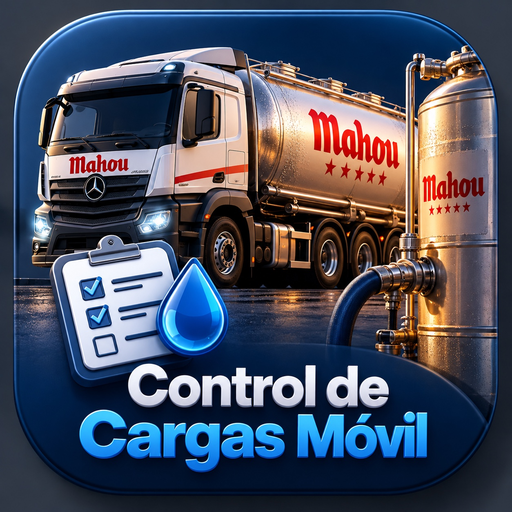
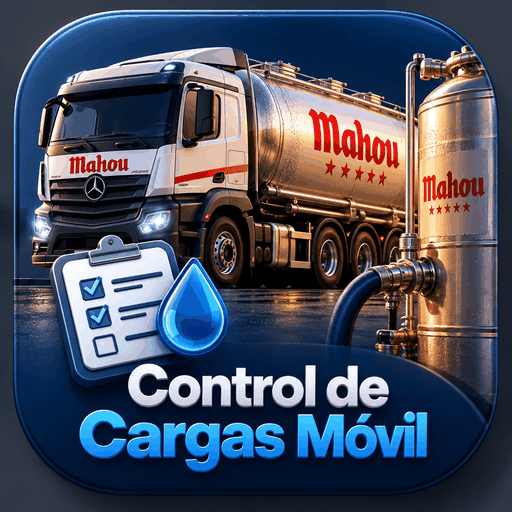
0.10.9: instalación ligera y sin textos de demostración con sesión
- Precarga del service worker de 8,0 MB a 1,48 MB: mismas imágenes,
  nombres, formatos y proporciones, ajustadas a la resolución que se ve
  en el móvil (cabeceras 1200×400, logo 600 px, referencias 768 px;
  icono 512×512 optimizado).
- Con sesión iniciada, Nueva carga, Planificación e Historial de Reparto
  muestran textos de producción; sin sesión conservan los avisos de
  demostración. «Visita guardada»; «saldos locales anteriores»;
  aria-label del selector de perfil y meta description sin «demo».
- Versión 0.10.9 (caché v0109) y CHANGELOG.md.
- Pruebas: tests/precarga.test.js y tests/browser-sin-demo.cjs.

Línea 300 TANQUES. Commit local, sin push (orden del usuario 18/11 15:28).

Claude-Session: https://claude.ai/code/session_01T6i3v7XFm8wrHcAX8AryG4

diff --git a/app.js b/app.js
@@ -2,7 +2,7 @@
 // Versión 0.9.6: existencias iniciales provisionales y conciliación pendiente (demo).
 // TankConfig (demo/staging) aísla IndexedDB respecto a producción.
 const STORE=(typeof window!=='undefined'&&window.TankConfig&&window.TankConfig.idbName)||'cdt_demo_v1';
-const APP_VERSION='0.10.8';
+const APP_VERSION='0.10.9';
 const litres=n=>{const v=Math.round(Number(n)*100)/100;return Number.isFinite(v)?v:NaN;};
 let formBusy=false;
 const UPDATE_CHECK_MS=6*60*60*1000;
@@ -105,7 +105,7 @@ function home(){
  if(!TankCloud.member()?.active)return TankCloud.panel();
  const tanks=state.tanks[state.vehicle],problems=state.cloudStockProblems||[];
  return '<div class="home-logo-preview"><img src="logo-control-tanques.png" alt="Control de Tanques Mahou"></div>'+`<h2 class="heading">${roleNames[state.role].replace(' (vista de prueba)','')}</h2>`+
- (!state.cloudStockReady?card('<h3>Existencias iniciales pendientes</h3><p>Gerencia debe indicar los litros comprobados antes de registrar movimientos. No se usarán los saldos ficticios anteriores.</p>'+(state.role==='gerencia'?action('Establecer existencias','go-gerencia'):'')):'')+
+ (!state.cloudStockReady?card('<h3>Existencias iniciales pendientes</h3><p>Gerencia debe indicar los litros comprobados antes de registrar movimientos. No se usarán los saldos locales anteriores.</p>'+(state.role==='gerencia'?action('Establecer existencias','go-gerencia'):'')):'')+
  (problems.length?'<div class="notice error">Hay movimientos incompatibles con las existencias. Gerencia debe revisar la conciliación antes de continuar.</div>':'')+
  (state.role!=='reparto'?card('<h3>Cisterna principal</h3><strong class="big">'+fmt(state.cisterna)+' L</strong>'):'')+
  `<label class="field">Vehículo<select id="vehicle"><option value="camion" ${state.vehicle==='camion'?'selected':''}>Camión</option><option value="furgoneta" ${state.vehicle==='furgoneta'?'selected':''}>Furgoneta</option></select></label>`+
@@ -121,7 +121,7 @@ if(state.role==='reparto'){txt+=provisionalFor(state.vehicle)?'<div class="notic
 if(state.role==='gerencia')txt+=action('Nueva carga de prueba','go-carga')+action(state.openVisit?'Continuar descarga':'Nueva descarga de prueba','go-visita');
 if(state.role==='gerencia')txt+=card('<h3>Gerencia · importación de pruebas</h3><p>Puedes importar Excel de jornada sin modificar las existencias de demostración.</p>'+action('Abrir importaciones','go-gerencia')+'<p class="hint">La sincronización entre PC y móvil y los permisos reales siguen pendientes.</p>');
 return txt}
-function loadPage(){let tanks=state.tanks[state.vehicle];return `<h2 class="heading">Carga individual</h2><div class="notice">Operación de prueba local. Un tanque por registro. Puedes cargar de nuevo tras enviar un lote. Si la cisterna es desconocida, la conciliación queda pendiente.</div><form id="loadForm" class="form"><label class="field">Vehículo<select id="loadVehicle"><option value="camion" ${state.vehicle==='camion'?'selected':''}>Camión</option><option value="furgoneta" ${state.vehicle==='furgoneta'?'selected':''}>Furgoneta</option></select></label><label class="field">Tanque del vehículo<select id="loadTank">${tanks.map((v,i)=>`<option value="${i}">Tanque ${i+1} · ${fmt(v)} L disponibles</option>`).join('')}</select></label><label class="field">Destino del sobrante<select id="residual"><option value="mantener">Conservar el sobrante</option><option value="desechar">Desechar sobrante como merma</option></select></label><label class="field">Lectura final del contador (litros cargados)<input id="loadLiters" inputmode="decimal" type="number" min="0.01" step="0.01" required placeholder="Ej. 200" /></label><button class="btn" type="submit">Confirmar carga de prueba</button><button class="btn secondary" type="button" data-act="leave-load">Salir sin registrar carga</button></form><p class="hint">La v1 registra los movimientos y conserva los saldos locales. El Excel diario se genera desde Más → Enviar jornada. El tiempo real queda pendiente.</p>`}
+function loadPage(){let tanks=state.tanks[state.vehicle];return `<h2 class="heading">Carga individual</h2><div class="notice">${TankCloud.connected()?'Un tanque por registro. Los cambios se guardan en el móvil y se sincronizan automáticamente.':'Operación de prueba local. Un tanque por registro. Puedes cargar de nuevo tras enviar un lote. Si la cisterna es desconocida, la conciliación queda pendiente.'}</div><form id="loadForm" class="form"><label class="field">Vehículo<select id="loadVehicle"><option value="camion" ${state.vehicle==='camion'?'selected':''}>Camión</option><option value="furgoneta" ${state.vehicle==='furgoneta'?'selected':''}>Furgoneta</option></select></label><label class="field">Tanque del vehículo<select id="loadTank">${tanks.map((v,i)=>`<option value="${i}">Tanque ${i+1} · ${fmt(v)} L disponibles</option>`).join('')}</select></label><label class="field">Destino del sobrante<select id="residual"><option value="mantener">Conservar el sobrante</option><option value="desechar">Desechar sobrante como merma</option></select></label><label class="field">Lectura final del contador (litros cargados)<input id="loadLiters" inputmode="decimal" type="number" min="0.01" step="0.01" required placeholder="Ej. 200" /></label><button class="btn" type="submit">Confirmar carga de prueba</button><button class="btn secondary" type="button" data-act="leave-load">Salir sin registrar carga</button></form><p class="hint">La v1 registra los movimientos y conserva los saldos locales. El Excel diario se genera desde Más → Enviar jornada. El tiempo real queda pendiente.</p>`}
 function plannedEntriesForVehicle(){
  return Object.values(state.receivedPlans||{}).filter(p=>p.vehicle===state.vehicle).flatMap(p=>p.entries||[]).filter(e=>!isR2PendingPlan(e));
 }
@@ -259,7 +259,7 @@ function historyPage(){
   const canCancel=!v.cancelledAt&&(v.sentAt||TankCloud.connected());
   return card(`<h3>${esc(v.client||'Visita sin cliente')}</h3><p class="compact">${esc(v.vehicle||'Vehículo desconocido')} · ${fmt(liters)} L · ${v.ended?showTime(v.ended):'Sin cierre'}</p>${v.cancelledAt?`<div class="notice">Anulación registrada (${showTime(v.cancelledAt)}). ${v.cancellationSentAt?'Comunicada en un lote Excel':TankCloud.connected()?'Pendiente de sincronizar':'Pendiente de exportar a Gerencia'}. Historial y saldos conservados.</div>`:canCancel?`<div class="notice">${TankCloud.connected()?'Visita sincronizada: anulación sin restaurar existencias (conciliación Gerencia).':'Visita enviada: requiere anulación comunicable a Gerencia, no borrado local.'}</div><button class="btn danger" type="button" data-act="cancel-sent-visit" data-id="${esc(v.id)}">Registrar anulación${TankCloud.connected()?'':' y comunicar a Gerencia'}</button>`:deleteBtn}`);
 }).join(''):'';
- return `<h2 class="heading">Historial local</h2><div class="notice">Almacén y Reparto muestran solo operaciones de hoy. Los registros anteriores permanecen guardados y accesibles desde Gerencia. Los lotes pendientes de días anteriores siguen disponibles para exportación.</div>${state.role==='reparto'?`<h3 class="heading">Visitas registradas · Revisión de pruebas</h3>${visitCards||'<div class="empty">No hay visitas cerradas guardadas en este perfil.</div>'}`:''}${movements.length?movements.map(m=>card(`<div class="row"><b>${esc(m.title)}</b><span class="tag">${showTime(m.at)}</span></div><p class="compact">${esc(m.desc)}</p>`)).join(''):'<div class="empty">Todavía no hay movimientos registrados.</div>'}`;
+ return `<h2 class="heading">Historial local</h2><div class="notice">Almacén y Reparto muestran solo operaciones de hoy. Los registros anteriores permanecen guardados y accesibles desde Gerencia. Los lotes pendientes de días anteriores siguen disponibles para exportación.</div>${state.role==='reparto'?`<h3 class="heading">Visitas registradas${TankCloud.connected()?'':' · Revisión de pruebas'}</h3>${visitCards||'<div class="empty">No hay visitas cerradas guardadas en este perfil.</div>'}`:''}${movements.length?movements.map(m=>card(`<div class="row"><b>${esc(m.title)}</b><span class="tag">${showTime(m.at)}</span></div><p class="compact">${esc(m.desc)}</p>`)).join(''):'<div class="empty">Todavía no hay movimientos registrados.</div>'}`;
 }
 const updatePanel=()=>card(`<h3>Actualizaciones</h3><div class="row"><span>Versión instalada</span><b class="mono">${APP_VERSION}</b></div><p class="update-info">La app busca nuevas versiones al abrirse o regresar a primer plano si hay conexión. No se eliminan los datos locales.</p>${action('Buscar actualizaciones','check-update',true)}${updateAvailable?`<div class="update-ready"><h4>Nueva versión disponible</h4><p class="compact">Puedes instalar la nueva versión sin borrar los movimientos de prueba.</p>${action('Actualizar ahora','apply-update')}</div>`:''}<p class="update-info" id="updateStatus">${navigator.onLine?'Para buscar una nueva versión, toca el botón.':'Sin conexión: se mantiene la versión instalada.'}</p>`);
 function stockAdjustmentPanel(){
@@ -795,7 +795,7 @@ function plannerPage(){
  const list=all.filter(c=>(planShowAll||(c.reparto||[]).includes(WEEKDAYS[planDay])||planSelected.has(c.id))&&normalizeCustomer(c.nombre+' '+c.poblacion).includes(normalizeCustomer(planSearch)));
  const picked=all.filter(c=>planSelected.has(c.id));
  const totals={camion:daily.filter(x=>x.vehicle==='camion').reduce((s,x)=>s+Number(x.liters),0),furgoneta:daily.filter(x=>x.vehicle==='furgoneta').reduce((s,x)=>s+Number(x.liters),0)};
- return `<h2 class="heading">Planificación · Gerencia</h2><div class="notice">Elige primero el vehículo, selecciona clientes y después introduce los litros. Las previsiones no modifican las existencias. Datos locales de prueba.</div>
+ return `<h2 class="heading">Planificación · Gerencia</h2><div class="notice">Elige primero el vehículo, selecciona clientes y después introduce los litros. Las previsiones no modifican las existencias.${TankCloud.connected()?'':' Datos locales de prueba.'}</div>
  <div class="card"><label class="field">Vehículo para esta planificación<select id="planVehicleChoice"><option value="camion" ${planVehicleChoice==='camion'?'selected':''}>Camión · Iván</option><option value="furgoneta" ${planVehicleChoice==='furgoneta'?'selected':''}>Furgoneta · Nacho</option></select></label><div class="row"><button class="btn small secondary" data-act="prev-week">‹</button><b>Semana ${esc(planDate(0))} – ${esc(planDate(4))}</b><button class="btn small secondary" data-act="next-week">›</button></div><div class="plan-days">${days.map((d,i)=>`<button class="${i===planDay?'chosen':''}" data-act="select-plan-day" data-day="${i}">${d}<small>${entries.filter(x=>x.date===planDate(i)).length}</small></button>`).join('')}</div></div>
  ${card(planStep===1?`<h3>1 · ${planVehicleChoice==='camion'?'Camión':'Furgoneta'} · Seleccionar clientes · ${esc(date)}</h3><p class="hint">${usual.length} clientes habituales para ${WEEKDAYS[planDay]}. Puedes incluir otros establecimientos sin modificar su ficha.</p><label class="field">Buscar cliente<input id="planSearch" type="search" placeholder="Nombre o población" value="${esc(planSearch)}"></label><label class="check"><input type="checkbox" id="planShowAll" ${planShowAll?'checked':''}> Mostrar todo el catálogo (${all.length})</label><div class="plan-bulk-buttons"><button type="button" class="btn small secondary" data-act="plan-select-visible">Marcar visibles</button><button type="button" class="btn small secondary" data-act="plan-clear-visible">Desmarcar visibles</button></div><div class="plan-customer-list" id="planCustomerList">${list.map(c=>`<label class="plan-customer" data-search="${esc(normalizeCustomer(c.nombre+' '+c.poblacion))}" data-usual="${(c.reparto||[]).includes(WEEKDAYS[planDay])?'yes':'no'}"><input type="checkbox" class="plan-pick" value="${esc(c.id)}" ${planSelected.has(c.id)?'checked':''}><span><b>${esc(c.nombre)}</b><small>${esc(c.poblacion)} · ${(c.reparto||[]).includes(WEEKDAYS[planDay])?'Habitual del día':'Fuera del día habitual'}</small></span></label>`).join('')||'<div class="empty">No hay clientes en este filtro. Activa «Mostrar todo el catálogo».</div>'}</div><p class="compact"><b id="planSelectedCount">${planSelected.size}</b> seleccionados</p><button class="btn" data-act="plan-next" ${planSelected.size?'':'disabled'}>Continuar · introducir litros →</button>`:
  `<h3>2 · Introducir litros · ${esc(date)}</h3><p class="hint">Vehículo: <b>${planVehicleChoice==='camion'?'Camión · Iván':'Furgoneta · Nacho'}</b>. Todos los clientes seleccionados se asignarán a este vehículo. Puedes cambiar su vehículo posteriormente desde Editar.</p><div class="plan-entry-list">${picked.map(c=>{const existing=daily.find(x=>x.customerId===c.id),draft=planDraft[c.id]||{},liters=draft.liters??existing?.liters??'',vehicle=planVehicleChoice,cap=Number(c.tanques250||0)*250+Number(c.tanques500||0)*500;return `<div class="plan-entry" data-customer="${esc(c.id)}"><b>${esc(c.nombre)}</b><small>${esc(c.poblacion)}${cap?' · Capacidad '+fmt(cap)+' L':''}${existing?' · Ya planificado':''}</small><div class="plan-entry-fields"><label>Litros<input class="plan-liters" data-customer="${esc(c.id)}" type="number" inputmode="decimal" min="0" step="0.01" placeholder="0" value="${esc(liters)}"></label></div></div>`}).join('')}</div><div class="plan-bulk-buttons"><button class="btn secondary" data-act="plan-back">← Volver</button><button class="btn" data-act="plan-save-bulk">Guardar planificación</button></div>`)}
@@ -943,7 +943,7 @@ async function reopenVisit(id){
  state.log.push({title:'Visita reabierta',at:now(),desc:`${v.client} · Correcciones permitidas antes del envío de jornada`});
  await persist();
 }
-async function finishVisit(){const v=state.openVisit;if(!v?.discharges.length)return toast('Registra al menos una descarga');if(!confirm(`Finalizar visita a ${v.client} con ${v.discharges.length} descargas?`))return;invalidateDraft('reparto');v.ended=now();state.visits.push(v);state.log.push({title:'Visita cerrada',desc:`${v.client} · ${v.discharges.length} descargas · ${fmt(v.discharges.reduce((s,d)=>s+d.liters,0))} L${v.planEntryId?' · Previsto '+fmt(v.plannedLiters)+' L': ' · No planificada ('+(v.unplannedReason||'otro')+')'}`,at:v.ended});state.openVisit=null;editingId=null;await persist();toast('Visita ficticia guardada')}
+async function finishVisit(){const v=state.openVisit;if(!v?.discharges.length)return toast('Registra al menos una descarga');if(!confirm(`Finalizar visita a ${v.client} con ${v.discharges.length} descargas?`))return;invalidateDraft('reparto');v.ended=now();state.visits.push(v);state.log.push({title:'Visita cerrada',desc:`${v.client} · ${v.discharges.length} descargas · ${fmt(v.discharges.reduce((s,d)=>s+d.liters,0))} L${v.planEntryId?' · Previsto '+fmt(v.plannedLiters)+' L': ' · No planificada ('+(v.unplannedReason||'otro')+')'}`,at:v.ended});state.openVisit=null;editingId=null;await persist();toast('Visita guardada')}
 async function backup(){const profiles={};for(const [role,key] of Object.entries(profileKeys))profiles[role]=await dbGet(key);const bytes=new Blob([JSON.stringify({app:'control-de-tanques',phase:'v0.10',exported:now(),profiles,sync:TankCloud.connected()?TankCloud.meta():null},null,2)],{type:'application/json'});const url=URL.createObjectURL(bytes);const a=document.createElement('a');a.href=url;a.download=`control-tanques-DEMO-perfiles-${new Date().toISOString().slice(0,10)}.json`;a.click();setTimeout(()=>URL.revokeObjectURL(url),15000)}
 async function handleActions(e){if(window.VISURA_LAB_VISUAL?.handle(e,state,render))return;if(TankCloud.connected()&&['reset','clear-opening','make-xlsx','mark-sent','resend-xlsx','prepare-real','save-reconciliation','export-handoff','export-stock'].includes(e.target.closest('[data-act]')?.dataset.act))return toast('En modo conectado se utiliza sincronización automática');const page=e.target.closest('[data-page]');if(page){await navigate(page.dataset.page);return}const act=e.target.closest('[data-act]')?.dataset.act;if(act==='import-r2-initial')return window.Visura315InitialImport?.open();if(act==='cancel-sent-visit')return cancelSentVisit(e.target.closest('[data-id]')?.dataset.id);if(act==='delete-test-visit')return deleteTestVisit(e.target.closest('[data-id]')?.dataset.id);if(act==='go-admin')return navigate('admin');if(act==='go-recibir-plan')return navigate('recibir-plan');if(act==='clear-opening'){if(confirm('¿Quitar los saldos iniciales ficticios? Los Excel importados y sus identificadores se conservarán.')){delete managerState().opening;await persist();}return;}if(act==='go-gerencia')return navigate('gerencia');if(act==='go-informes'){TankCloud.loadMembers?.().then(()=>{if(state.page==='informes')render()}).catch(console.warn);return navigate('informes');}if(act==='report-pdf')return downloadReport();if(act==='go-clientes')return navigate('clientes');if(act==='go-planificacion')return navigate('planificacion');if(act==='plan-select-visible'||act==='plan-clear-visible'){document.querySelectorAll('.plan-pick').forEach(n=>{if(n.closest('.plan-customer').hidden)return;if(act==='plan-select-visible')planSelected.add(n.value);else planSelected.delete(n.value)});return render()}if(act==='plan-next'){if(!planSelected.size)return toast('Selecciona clientes');planStep=2;return render()}if(act==='plan-back'){planStep=1;return render()}if(act==='plan-save-bulk')return saveBulkPlan();if(act==='prev-week')return moveWeek(-1);if(act==='next-week')return moveWeek(1);if(act==='select-plan-day'){planDay=Number(e.target.closest('[data-day]').dataset.day);resetPlanSelection();return render()}if(act==='edit-plan'){planEditing=e.target.closest('[data-id]').dataset.id;return render()}if(act==='cancel-plan-edit'){planEditing=null;return render()}if(act==='delete-plan')return deletePlan(e.target.closest('[data-id]').dataset.id);if(act==='export-plan')return exportPlan(e.target.closest('[data-vehicle]').dataset.vehicle);if(act==='close-nav-sheet')return closeNavigationSheet();if(act==='choose-nav')return navigateCustomerWith(e.target.closest('[data-provider]').dataset.provider);if(act==='cancel-customer'){editingCustomer=null;return render()}if(act==='map-customer')return openCustomerLocation(e.target.closest('[data-id]')?.dataset.id);if(act==='edit-customer'){if(!canEditCustomerCatalog())return toast('Solo Gerencia puede editar clientes');const id=e.target.closest('[data-id]')?.dataset.id;if(!(state.customers||[]).some(x=>x.id===id))return toast('Cliente no encontrado');editingCustomer=id;return render()}if(act==='delete-customer'){const id=e.target.closest('[data-id]')?.dataset.id;const c=(state.customers||[]).find(x=>x.id===id);if(isR2PendingRoute(c))return toast('Ficha R2 de solo consulta');if(c&&confirm('¿Eliminar el cliente '+c.nombre+' del catálogo local?')){state.customers=state.customers.filter(x=>x.id!==id);if(editingCustomer===id)editingCustomer=null;await persist()}return;}if(act==='export-handoff')return exportHandoff();if(act==='export-stock')return shareStockFile(el('stockExportVehicle')?.value||state.vehicle);if(act==='go-jornada')return navigate('jornada');if(act==='make-xlsx')return sendJournal(false);if(act==='resend-xlsx')return sendJournal(true);if(act==='mark-sent')return markJournalSent();if(act==='leave-load')return navigate('inicio');if(act==='leave-visit'){const v=state.openVisit;if(!v)return navigate('inicio');if(!(v.discharges||[]).length){if((v.resets||[]).length||(v.corrections||[]).length)return toast('Hay modificaciones registradas: revisa la visita antes de salir');state.openVisit=null;await persist();toast('Entrada descartada: no se registraron descargas');return navigate('inicio')}await persist();toast('Visita conservada. Podrás continuarla después.');return navigate('inicio')}if(act==='go-carga')return navigate('carga');if(act==='go-visita')return navigate('visita');if(act==='start-planned-visit'){const id=e.target.closest('[data-id]')?.dataset.id;const entry=plannedEntriesForVehicle().find(x=>x.id===id);if(!entry)return toast('No se encontró la entrega');if((state.visits||[]).some(v=>v.planEntryId===id))return toast('Entrega ya atendida');return beginDelivery(entry,entry.client,null);}if(act==='finish-visit')return finishVisit();if(act==='reset-meter')return resetMeter();if(act==='cancel-edit'){editingId=null;return render()}if(act==='edit-discharge'){editingId=e.target.closest('[data-id]')?.dataset.id;return render()}if(act==='reopen-visit')return reopenVisit(e.target.closest('[data-id]')?.dataset.id);if(act==='save-reconciliation')return saveReconciliation();if(act==='export-reconciliation')return exportReconciliation();if(act==='prepare-real')return prepareRealOpening();if(act==='export-real-opening')return exportRealOpening();if(act==='backup')return backup();if(act==='check-update')return checkForUpdates(true);if(act==='apply-update')return applyUpdate();if(act==='reset'){if(confirm('¿Reiniciar solamente el perfil '+roleNames[state.role]+'? Antes guarda una copia JSON. Los otros perfiles y la copia anterior se mantienen.')){const role=state.role;state=cleanProfile(role);await persist()}}}
 async function handleChange(e){if(e.target.id==='extraCatalogClient')updateDeliveryCatalogDetails();if(e.target.id==='vehicle'||e.target.id==='loadVehicle'){if((e.target.id==='loadVehicle'?TankRoles.openVisitLocksLoadVehicle(state):state.openVisit)&&e.target.value!==state.openVisit.vehicle){e.target.value=state.openVisit.vehicle;return toast('Finaliza primero la descarga en curso para cambiar de vehículo')}state.vehicle=e.target.value;await persist();render()}if(e.target.id==='planVehicleChoice'){planVehicleChoice=e.target.value;resetPlanSelection();render();}if(e.target.id==='planShowAll'){planShowAll=e.target.checked;render()}if(e.target.classList.contains('plan-pick')){if(e.target.checked)planSelected.add(e.target.value);else planSelected.delete(e.target.value);const counter=el('planSelectedCount');if(counter)counter.textContent=planSelected.size;const next=document.querySelector('[data-act=plan-next]');if(next)next.disabled=!planSelected.size;}if(e.target.id==='deliveryDate'){state.deliveryDate=e.target.value;await persist()}if(['reportDate','reportOperator','reportVehicle'].includes(e.target.id)){reportFilters[e.target.id]=e.target.value;render();}if(e.target.id==='planReceiveVehicle'){state.vehicle=e.target.value;await persist()}if(e.target.id==='receivePlanFile'&&e.target.files?.[0])await receivePlanFile(e.target.files[0]);if(e.target.id==='chooseRole'){await changeProfile(e.target.value)}if(e.target.id==='loadVehicle')render();if(e.target.id==='journalDate'){journalDate=e.target.value;render()}if(e.target.id==='journalWorker'){journalWorker=e.target.value.trim();}if(e.target.id==='managerFile'&&e.target.files?.[0])await importManagerFile(e.target.files[0]);if(e.target.id==='handoffFile'&&e.target.files?.[0])await receiveHandoff(e.target.files[0]);if(e.target.id==='stockTransferFile'&&e.target.files?.[0])await receiveStockFile(e.target.files[0]);}

diff --git a/index.html b/index.html
@@ -1,6 +1,6 @@
 <!doctype html>
-<html lang="es"><head><meta charset="utf-8"><meta name="viewport" content="width=device-width,initial-scale=1,viewport-fit=cover"><meta name="theme-color" content="#b61b32"><meta name="description" content="Control de Tanques — prototipo local de pruebas"><link rel="manifest" href="manifest.webmanifest?v=0.10.8"><link rel="icon" href="Control_de_Tanques_icon_512.png" type="image/png"><link rel="apple-touch-icon" href="Control_de_Tanques_icon_512.png"><link rel="stylesheet" href="styles.css?v=0.10.8"><link rel="stylesheet" href="visura-r5-visual.css?v=cp030"><link rel="stylesheet" href="visura-tanques-botones-r4.css?v=r5-home"><link rel="stylesheet" href="visura-tanques-interiores-r6.css?v=r6"><link rel="stylesheet" href="visura-tanques-interiores-r61.css?v=r61"><link rel="stylesheet" href="visura-gerencia-dual-r7.css?v=r7"><link rel="stylesheet" href="visura-gerencia-imagenes-r8.css?v=r8"><link rel="stylesheet" href="visura-transversal-r9.css?v=r91"><link rel="stylesheet" href="visura-inicio-sync-r92.css?v=r92"><link rel="stylesheet" href="visura-banners-r93.css?v=r93"><link rel="stylesheet" href="visura-secundarias-r94.css?v=r94"><link rel="stylesheet" href="visura-gerencia-interiores-r95.css?v=r95"><link rel="stylesheet" href="visura-operativa-r96.css?v=r96"><link rel="stylesheet" href="visura-consolidacion-r97.css?v=r97"><title>VISURA PREPARA · TANQUES</title></head>
-<body><header class="top"><div class="brand"><img class="visura-header-logo" src="assets/visura-prepara.svg" alt="VISURA PREPARA" width="150" height="38"><div class="visura-header-meta"><small>MAHOU · VOLDIS</small><h1>TANQUES</h1></div></div><div class="role-switch"><button id="roleButton" class="pill" type="button" aria-expanded="false" aria-controls="rolePicker">Reparto ▾</button><div id="rolePicker" class="role-picker" role="group" aria-label="Cambiar perfil de demostración" hidden><button type="button" data-profile="almacen">Almacén</button><button type="button" data-profile="gerencia">Operaciones</button><button type="button" data-profile="reparto">Reparto</button></div></div></header><div class="demo-banner">VISURA PREPARA · v0.10.8</div>
+<html lang="es"><head><meta charset="utf-8"><meta name="viewport" content="width=device-width,initial-scale=1,viewport-fit=cover"><meta name="theme-color" content="#b61b32"><meta name="description" content="Control de Tanques VISURA — cargas, descargas y existencias de tanques"><link rel="manifest" href="manifest.webmanifest?v=0.10.9"><link rel="icon" href="Control_de_Tanques_icon_512.png" type="image/png"><link rel="apple-touch-icon" href="Control_de_Tanques_icon_512.png"><link rel="stylesheet" href="styles.css?v=0.10.9"><link rel="stylesheet" href="visura-r5-visual.css?v=cp030"><link rel="stylesheet" href="visura-tanques-botones-r4.css?v=r5-home"><link rel="stylesheet" href="visura-tanques-interiores-r6.css?v=r6"><link rel="stylesheet" href="visura-tanques-interiores-r61.css?v=r61"><link rel="stylesheet" href="visura-gerencia-dual-r7.css?v=r7"><link rel="stylesheet" href="visura-gerencia-imagenes-r8.css?v=r8"><link rel="stylesheet" href="visura-transversal-r9.css?v=r91"><link rel="stylesheet" href="visura-inicio-sync-r92.css?v=r92"><link rel="stylesheet" href="visura-banners-r93.css?v=r93"><link rel="stylesheet" href="visura-secundarias-r94.css?v=r94"><link rel="stylesheet" href="visura-gerencia-interiores-r95.css?v=r95"><link rel="stylesheet" href="visura-operativa-r96.css?v=r96"><link rel="stylesheet" href="visura-consolidacion-r97.css?v=r97"><title>VISURA PREPARA · TANQUES</title></head>
+<body><header class="top"><div class="brand"><img class="visura-header-logo" src="assets/visura-prepara.svg" alt="VISURA PREPARA" width="150" height="38"><div class="visura-header-meta"><small>MAHOU · VOLDIS</small><h1>TANQUES</h1></div></div><div class="role-switch"><button id="roleButton" class="pill" type="button" aria-expanded="false" aria-controls="rolePicker">Reparto ▾</button><div id="rolePicker" class="role-picker" role="group" aria-label="Cambiar perfil" hidden><button type="button" data-profile="almacen">Almacén</button><button type="button" data-profile="gerencia">Operaciones</button><button type="button" data-profile="reparto">Reparto</button></div></div></header><div class="demo-banner">VISURA PREPARA · v0.10.9</div>
 <section id="visuraCloudPanel" class="screen" style="padding-bottom:0"><div class="card"><p id="cloudBadge" role="status">Iniciando conexión…</p><button id="cloudForce" class="btn secondary" data-cloud="force">Sincronizar ahora</button><button class="btn secondary" data-cloud="settings">Cuenta</button></div></section><main id="screen" class="screen" aria-live="polite"></main>
 <nav class="nav" aria-label="Navegación principal"><button type="button" data-page="inicio" class="active" aria-current="page"><svg viewBox="0 0 24 24" aria-hidden="true" focusable="false"><path d="M3 10.5 12 3l9 7.5V21h-6v-7H9v7H3z"/></svg>Inicio</button><button type="button" data-page="carga"><svg viewBox="0 0 24 24" aria-hidden="true" focusable="false"><path d="M4 15h16v6H4zM12 3v10m-5-5 5-5 5 5"/></svg>Carga</button><button type="button" data-page="visita"><svg viewBox="0 0 24 24" aria-hidden="true" focusable="false"><path d="M4 15h16v6H4zM12 3v10m-5-5 5 5 5-5"/></svg>Descarga</button><button type="button" data-page="historial"><svg viewBox="0 0 24 24" aria-hidden="true" focusable="false"><circle cx="12" cy="12" r="9"/><path d="M12 7v5l4 2"/></svg>Historial</button><button type="button" data-page="admin"><svg viewBox="0 0 24 24" aria-hidden="true" focusable="false"><circle cx="5" cy="5" r="1.4"/><circle cx="12" cy="5" r="1.4"/><circle cx="19" cy="5" r="1.4"/><circle cx="5" cy="12" r="1.4"/><circle cx="12" cy="12" r="1.4"/><circle cx="19" cy="12" r="1.4"/><circle cx="5" cy="19" r="1.4"/><circle cx="12" cy="19" r="1.4"/><circle cx="19" cy="19" r="1.4"/></svg>Más</button></nav>
-<div id="navigationSheet" class="nav-sheet-backdrop" hidden><div class="nav-sheet" role="dialog" aria-modal="true" aria-labelledby="navSheetTitle"><div class="nav-sheet-handle"></div><h3 id="navSheetTitle">Abrir ubicación con…</h3><p id="navigationClient" class="muted compact"></p><button type="button" class="nav-option" data-act="choose-nav" data-provider="waze"><span class="nav-option-icon">🚙</span><span><b>Waze</b><small>Navegación GPS</small></span><span>›</span></button><button type="button" class="nav-option" data-act="choose-nav" data-provider="google"><span class="nav-option-icon">📍</span><span><b>Google Maps</b><small>Mapas y rutas</small></span><span>›</span></button><button type="button" class="nav-option" data-act="choose-nav" data-provider="apple"><span class="nav-option-icon">🗺</span><span><b>Mapas de Apple</b><small>Navegación en iPhone</small></span><span>›</span></button><button type="button" class="btn secondary" data-act="close-nav-sheet">Cancelar</button></div></div><div id="toast" role="status" aria-live="polite"></div><script src="xlsx-local.js?v=0.10.8" defer></script><script src="xlsx-import-local.js?v=0.10.8" defer></script><script src="xlsx-transfer-local.js?v=0.10.8" defer></script><script src="plan-import-local.js?v=0.10.8" defer></script><script src="supabase-2.57.4.js" defer></script><script src="sync-core.js?v=0.10.8" defer></script><script src="cloud-sync.js?v=0.10.8" defer></script><script src="visura-r5-visual.js?v=r5-descarga-reparto" defer></script><script src="visura-tanques-botones-r4.js?v=r4" defer></script><script src="visura-tanques-interiores-r61.js?v=r61" defer></script><script src="role-rules.js?v=0.10.8" defer></script><script src="report-core.js?v=0.10.8" defer></script><script src="report-pdf.js?v=0.10.8" defer></script><script src="app.js?v=0.10.8-home-r5-315-operativa-r2" defer></script><script src="visura315-import.js?v=1" defer></script><script src="visura-gerencia-dual-r7.js?v=r7" defer></script><script src="visura-gerencia-imagenes-r8.js?v=r8" defer></script><script src="visura-transversal-r9.js?v=r91" defer></script><script src="visura-inicio-sync-r92.js?v=r92" defer></script><script src="visura-banners-r93.js?v=r93" defer></script><script src="visura-secundarias-r94.js?v=r94" defer></script><script src="visura-gerencia-interiores-r95.js?v=r95" defer></script></body></html>
+<div id="navigationSheet" class="nav-sheet-backdrop" hidden><div class="nav-sheet" role="dialog" aria-modal="true" aria-labelledby="navSheetTitle"><div class="nav-sheet-handle"></div><h3 id="navSheetTitle">Abrir ubicación con…</h3><p id="navigationClient" class="muted compact"></p><button type="button" class="nav-option" data-act="choose-nav" data-provider="waze"><span class="nav-option-icon">🚙</span><span><b>Waze</b><small>Navegación GPS</small></span><span>›</span></button><button type="button" class="nav-option" data-act="choose-nav" data-provider="google"><span class="nav-option-icon">📍</span><span><b>Google Maps</b><small>Mapas y rutas</small></span><span>›</span></button><button type="button" class="nav-option" data-act="choose-nav" data-provider="apple"><span class="nav-option-icon">🗺</span><span><b>Mapas de Apple</b><small>Navegación en iPhone</small></span><span>›</span></button><button type="button" class="btn secondary" data-act="close-nav-sheet">Cancelar</button></div></div><div id="toast" role="status" aria-live="polite"></div><script src="xlsx-local.js?v=0.10.9" defer></script><script src="xlsx-import-local.js?v=0.10.9" defer></script><script src="xlsx-transfer-local.js?v=0.10.9" defer></script><script src="plan-import-local.js?v=0.10.9" defer></script><script src="supabase-2.57.4.js" defer></script><script src="sync-core.js?v=0.10.9" defer></script><script src="cloud-sync.js?v=0.10.9" defer></script><script src="visura-r5-visual.js?v=r5-descarga-reparto" defer></script><script src="visura-tanques-botones-r4.js?v=r4" defer></script><script src="visura-tanques-interiores-r61.js?v=r61" defer></script><script src="role-rules.js?v=0.10.9" defer></script><script src="report-core.js?v=0.10.9" defer></script><script src="report-pdf.js?v=0.10.9" defer></script><script src="app.js?v=0.10.9-home-r5-315-operativa-r2" defer></script><script src="visura315-import.js?v=1" defer></script><script src="visura-gerencia-dual-r7.js?v=r7" defer></script><script src="visura-gerencia-imagenes-r8.js?v=r8" defer></script><script src="visura-transversal-r9.js?v=r91" defer></script><script src="visura-inicio-sync-r92.js?v=r92" defer></script><script src="visura-banners-r93.js?v=r93" defer></script><script src="visura-secundarias-r94.js?v=r94" defer></script><script src="visura-gerencia-interiores-r95.js?v=r95" defer></script></body></html>

diff --git a/sw.js b/sw.js
@@ -1,6 +1,6 @@
 // Cache del shell únicamente. Nunca abre IndexedDB ni borra datos de usuario.
-const CACHE='control-tanques-demo-v0108-visura14-transversal-r91-315-operativa-r2-inicio-r92-banners-r93-secundarias-r94-gerencia-r95-operativa-r96-consolidacion-r97';
-const FILES=['./supabase-2.57.4.js','./sync-core.js?v=0.10.8','./cloud-sync.js?v=0.10.8','./','./index.html','./styles.css?v=0.10.8','./role-rules.js?v=0.10.8','./report-core.js?v=0.10.8','./report-pdf.js?v=0.10.8','./app.js?v=0.10.8-home-r5-315-operativa-r2','./visura315-import.js?v=1','./xlsx-local.js?v=0.10.8','./xlsx-import-local.js?v=0.10.8','./xlsx-transfer-local.js?v=0.10.8','./plan-import-local.js?v=0.10.8','./manifest.webmanifest?v=0.10.8','./assets/visura-prepara.svg','./icon.svg','./mahou-logo.png','./logo-control-tanques.png','./Control_de_Tanques_icon_192.png','./Control_de_Tanques_icon_512.png','./version.json','./visura-r5-visual.js?v=r5-descarga-reparto','./visura-r5-visual.css?v=cp030','./referencia-clientes.jpg','./referencia-cargas.jpg','./assets/cargas-aprobada.png','./assets/descargas-aprobada.png','./visura-tanques-botones-r4.js?v=r4','./visura-tanques-botones-r4.css?v=r5-home','./visura-tanques-interiores-r6.css?v=r6','./visura-tanques-interiores-r61.css?v=r61','./visura-tanques-interiores-r61.js?v=r61','./visura-gerencia-dual-r7.css?v=r7','./visura-gerencia-dual-r7.js?v=r7','./visura-gerencia-imagenes-r8.css?v=r8','./visura-gerencia-imagenes-r8.js?v=r8','./assets/gerencia-r8-cisterna.jpg','./assets/gerencia-r8-camion.jpg','./assets/gerencia-r8-furgoneta.jpg','./assets/voldis-logo-autorizado-r8.jpeg','./visura-transversal-r9.css?v=r91','./visura-transversal-r9.js?v=r91','./visura-inicio-sync-r92.css?v=r92','./visura-inicio-sync-r92.js?v=r92','./visura-banners-r93.css?v=r93','./visura-banners-r93.js?v=r93','./visura-secundarias-r94.css?v=r94','./visura-secundarias-r94.js?v=r94','./visura-gerencia-interiores-r95.css?v=r95','./visura-gerencia-interiores-r95.js?v=r95','./visura-operativa-r96.css?v=r96','./visura-consolidacion-r97.css?v=r97'];
+const CACHE='control-tanques-demo-v0109-visura14-transversal-r91-315-operativa-r2-inicio-r92-banners-r93-secundarias-r94-gerencia-r95-operativa-r96-consolidacion-r97';
+const FILES=['./supabase-2.57.4.js','./sync-core.js?v=0.10.9','./cloud-sync.js?v=0.10.9','./','./index.html','./styles.css?v=0.10.9','./role-rules.js?v=0.10.9','./report-core.js?v=0.10.9','./report-pdf.js?v=0.10.9','./app.js?v=0.10.9-home-r5-315-operativa-r2','./visura315-import.js?v=1','./xlsx-local.js?v=0.10.9','./xlsx-import-local.js?v=0.10.9','./xlsx-transfer-local.js?v=0.10.9','./plan-import-local.js?v=0.10.9','./manifest.webmanifest?v=0.10.9','./assets/visura-prepara.svg','./icon.svg','./mahou-logo.png','./logo-control-tanques.png','./Control_de_Tanques_icon_192.png','./Control_de_Tanques_icon_512.png','./version.json','./visura-r5-visual.js?v=r5-descarga-reparto','./visura-r5-visual.css?v=cp030','./referencia-clientes.jpg','./referencia-cargas.jpg','./assets/cargas-aprobada.png','./assets/descargas-aprobada.png','./visura-tanques-botones-r4.js?v=r4','./visura-tanques-botones-r4.css?v=r5-home','./visura-tanques-interiores-r6.css?v=r6','./visura-tanques-interiores-r61.css?v=r61','./visura-tanques-interiores-r61.js?v=r61','./visura-gerencia-dual-r7.css?v=r7','./visura-gerencia-dual-r7.js?v=r7','./visura-gerencia-imagenes-r8.css?v=r8','./visura-gerencia-imagenes-r8.js?v=r8','./assets/gerencia-r8-cisterna.jpg','./assets/gerencia-r8-camion.jpg','./assets/gerencia-r8-furgoneta.jpg','./assets/voldis-logo-autorizado-r8.jpeg','./visura-transversal-r9.css?v=r91','./visura-transversal-r9.js?v=r91','./visura-inicio-sync-r92.css?v=r92','./visura-inicio-sync-r92.js?v=r92','./visura-banners-r93.css?v=r93','./visura-banners-r93.js?v=r93','./visura-secundarias-r94.css?v=r94','./visura-secundarias-r94.js?v=r94','./visura-gerencia-interiores-r95.css?v=r95','./visura-gerencia-interiores-r95.js?v=r95','./visura-operativa-r96.css?v=r96','./visura-consolidacion-r97.css?v=r97'];
 // Exclusivamente los dos PNG aprobados; el resto de recursos conserva su política.
 const BANNERS=new Set(['assets/cargas-aprobada.png','assets/descargas-aprobada.png'].map(p=>new URL(p,self.registration.scope).href));
 const isBanner=request=>BANNERS.has(request.url);

diff --git a/tests/precarga.test.js b/tests/precarga.test.js
@@ -1,0 +1,40 @@
+'use strict';
+// Instalación ligera (0.10.9): la precarga del service worker debe ser pequeña y completa.
+const test=require('node:test');
+const assert=require('node:assert/strict');
+const fs=require('fs');
+const path=require('path');
+const root=path.join(__dirname,'..');
+const sw=fs.readFileSync(path.join(root,'sw.js'),'utf8');
+const files=[...new Set([...sw.matchAll(/'\.\/([^'?]*)/g)].map(m=>m[1]||'index.html'))];
+const LIMIT=1.5e6;
+
+test('Todos los archivos de la precarga existen',()=>{
+ const missing=files.filter(f=>!fs.existsSync(path.join(root,f)));
+ assert.deepEqual(missing,[]);
+});
+
+test(`La precarga completa pesa menos de ${LIMIT/1e6} MB`,()=>{
+ const total=files.reduce((t,f)=>t+fs.statSync(path.join(root,f)).size,0);
+ assert.ok(total<LIMIT,`precarga ${(total/1e6).toFixed(2)} MB`);
+});
+
+test('Ninguna imagen de la precarga supera 300 KB',()=>{
+ const heavy=files.filter(f=>/\.(png|jpe?g|webp)$/i.test(f)).map(f=>[f,fs.statSync(path.join(root,f)).size]).filter(([,n])=>n>300e3);
+ assert.deepEqual(heavy,[]);
+});
+
+// Dimensiones leídas de la cabecera del archivo, sin dependencias.
+function size(file){
+ const b=fs.readFileSync(path.join(root,file));
+ if(b.slice(1,4).toString()==='PNG')return [b.readUInt32BE(16),b.readUInt32BE(20)];
+ let i=2;while(i<b.length){if(b[i]!==0xFF){i++;continue}const m=b[i+1];if(m>=0xC0&&m<=0xC3)return [b.readUInt16BE(i+7),b.readUInt16BE(i+5)];i+=2+b.readUInt16BE(i+2);}
+ throw Error('formato no reconocido '+file);
+}
+test('Las imágenes conservan proporción y tamaño útil en móvil',()=>{
+ for(const f of ['assets/cargas-aprobada.png','assets/descargas-aprobada.png']){
+  const [w,h]=size(f);assert.equal(w/h,3,f+' debe seguir siendo 3:1 (2172×724 en el HTML)');assert.ok(w>=1170,f+' cubre 390 px a 3x');
+ }
+ const [lw,lh]=size('logo-control-tanques.png');assert.equal(lw,lh);assert.ok(lw>=600);
+ assert.deepEqual(size('Control_de_Tanques_icon_512.png'),[512,512],'icono del manifiesto 512×512');
+});

diff --git a/tests/fase-a.test.js b/tests/fase-a.test.js
@@ -191,7 +191,7 @@ test('11. service worker no toca IndexedDB (actualización segura)',()=>{
  assert.equal(/\bindexedDB\s*\./.test(sw),false);
  assert.equal(/openDB|IDBKeyRange|indexedDB\.open/.test(sw),false);
  assert.match(sw,/caches\.(open|keys|match)/);
- assert.match(sw,/control-tanques-demo-v0108/);
+ assert.match(sw,/control-tanques-demo-v0109/);
 });
 
 test('12. compatibilidad apertura 20/10/2026 y forbidSyncedDelete',()=>{

diff --git a/CHANGELOG.md b/CHANGELOG.md
@@ -3,6 +3,30 @@
 Versiones publicadas desde GitHub `main`. Los paquetes sellados no se modifican; cada cambio va en una versión nueva.
 Las versiones 0.10.6 y 0.10.7 no se usan aquí: la línea 315 ya las empleó para sus paquetes (0.10.6 «retorno», 0.10.7-RC1), y se saltan para que no haya dos versiones con el mismo número.
 
+## 0.10.9 — 18/11/2026 · línea 300 TANQUES · PROBADO LAB
+
+Corrección de uso diario (decisión de 000, CP014: en esta app solo correcciones; las funciones nuevas van a TANQUES 4.0).
+
+### Instalación ligera
+- La descarga inicial al instalar o actualizar pasa de **8,0 MB a 1,5 MB**.
+- Mismas imágenes, nombres, formatos y proporciones, ajustadas a la resolución que se ve en el móvil:
+  - Cabeceras de Cargas y Descargas: 2172×724 → 1200×400 (de 2,4 MB a 0,24 MB cada una).
+  - Logo: 1254 → 600 px (de 1,4 MB a 0,12 MB).
+  - Icono 512×512: misma medida, de 402 a 124 KB.
+  - Imágenes de referencia: 1536 → 768 px de ancho (de ~0,4 MB a ~0,07 MB).
+- Antes, si fallaba una sola de esas descargas grandes, la app no quedaba instalada para usarse sin conexión.
+
+### Sin textos de demostración con sesión iniciada
+- Nueva carga, Planificación e Historial de Reparto muestran textos de producción con sesión iniciada. Sin sesión (modo demostración) conservan sus avisos de demostración.
+- «Visita ficticia guardada» pasa a «Visita guardada».
+- Inicio: «saldos ficticios anteriores» pasa a «saldos locales anteriores».
+- Selector de perfil (lectores de pantalla) y descripción de la página sin «demostración» ni «prototipo».
+- Sin cambios en los nombres de archivos Excel ni en la base local (`cdt_demo_v1`): cambiarlos rompería el intercambio o los datos guardados.
+
+### Pruebas
+- Nueva `tests/precarga.test.js`: archivos presentes, total < 1,5 MB, ninguna imagen > 300 KB, proporciones y tamaño útil.
+- Nueva `tests/browser-sin-demo.cjs`: recorre con sesión iniciada todas las pantallas de Operaciones, Almacén y Reparto buscando textos de demostración.
+
 ## 0.10.8 — 18/11/2026 · línea 300 TANQUES · PROBADO LAB
 
 ### Perfil «Operaciones»
